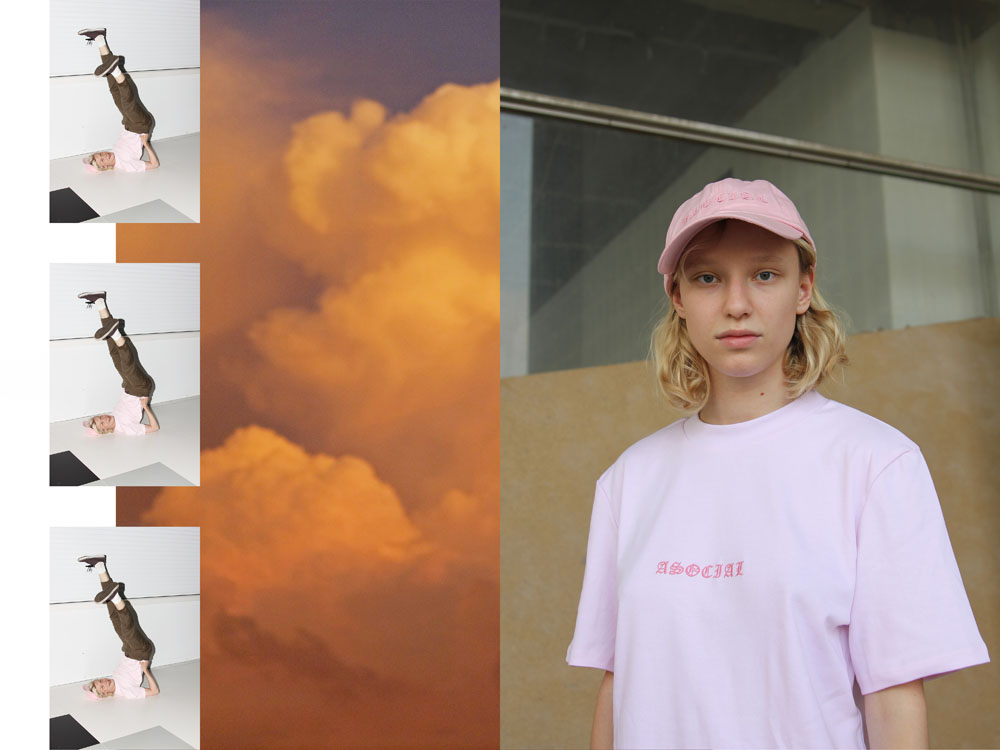
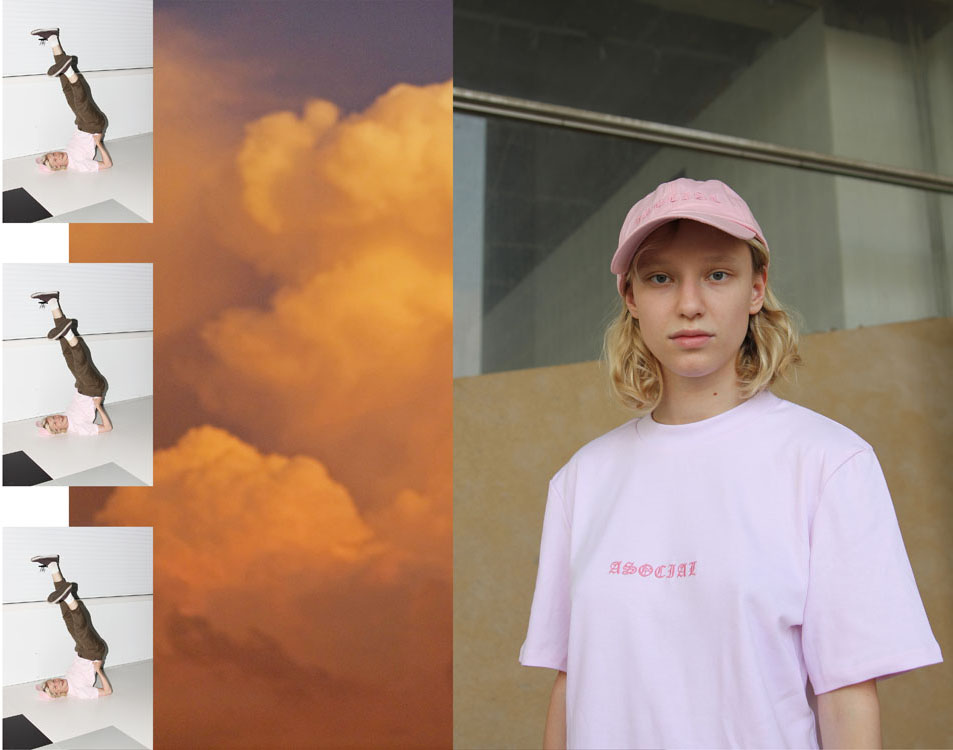
decreased pics size, changed index padding for iphone

diff --git a/public/js/bundle.js b/public/js/bundle.js
@@ -1,5 +1,6 @@
 window.onload = function() {
 
+//Mobile/Desktop menu control
 	(function() {
 
 		"use strict";
@@ -10,19 +11,9 @@ window.onload = function() {
 		var headerLogo = document.querySelectorAll(".header-logo")[0];
 		var slidingPartText = document.querySelectorAll(".mobile-menu")[0];
 		var link = $(".mobile-menu__elem-link");
-		var desktopLink = $('.menu-desktop__elem-link')
+		// var desktopLink = $('.menu-desktop__elem-link')
 		var item = $('.mobile-modal');
-		var slides = document.querySelectorAll(".swiper-slide").length;
-
-		var bodyWrapper = document.querySelectorAll(".main-container")[0];
-		var preloader = document.querySelectorAll(".preloader-container")[0];
-
-		if (bodyWrapper.classList.contains('not-active') === true) {
-			setTimeout(function() {
-				bodyWrapper.classList.remove('not-active')
-				preloader.classList.add('not-active')
-			}, 1)
-		}
+		// var slides = document.querySelectorAll(".swiper-slide").length;
 
 		//mobile link click
 		link.click(function(e) {
@@ -32,22 +23,8 @@ window.onload = function() {
 			item.one("webkitTransitionEnd otransitionend oTransitionEnd msTransitionEnd transitionend",
 				function() {
 					window.location = self.href;
-					//bodyWrapper.classList.add('fade-out')
 				});
 		})
-
-		//desktopLink.click(function(e) {
-		//e.preventDefault();
-		//bodyWrapper.classList.add('fade-out')
-		//var self = this;
-		//$('.main-container').one("webkitTransitionEnd otransitionend oTransitionEnd msTransitionEnd transitionend",
-		//function() {
-		//window.location = self.href;
-		//console.log(window.location)
-
-		//});
-		//})
-
 
 		navIcon.addEventListener("click", function(e) {
 			e.preventDefault();
@@ -59,13 +36,25 @@ window.onload = function() {
 			menuEventsHandler(navIcon, modal, slidingPart, headerLogo, slidingPartText)
 		});
 
+		//Toggle class is-active
 		function menuEventsHandler() {
 			var args = Array.prototype.slice.call(arguments, 0);
 			args.forEach(function(toggle) {
-				(toggle.classList.contains('is-active') === true) ? toggle.classList.remove('is-active'): toggle.classList.add('is-active')
+				(toggle.classList.contains('is-active') === true) ? toggle.classList.remove('is-active') : toggle.classList.add('is-active')
 			})
 		}
 
 	})();
+
+// Removes ".not-active" class on window load
+(function() {
+	var bodyWrapper = document.querySelectorAll(".main-container")[0];
+	var preloader = document.querySelectorAll(".preloader-container")[0];
+
+	if (bodyWrapper.classList.contains('not-active') === true) {
+			bodyWrapper.classList.remove('not-active')
+			preloader.classList.add('not-active')
+	}
+}())
 
 }

diff --git a/public/css/style.css b/public/css/style.css
@@ -5817,6 +5817,14 @@ button.close {
   .hidden-print {
     display: none !important; } }
 
+.index-container {
+  position: relative;
+  width: 90%;
+  display: flex;
+  align-self: center;
+  justify-content: space-between;
+  padding-top: 10px; }
+
 .products__container {
   position: relative;
   width: 80%;
@@ -5851,7 +5859,7 @@ button.close {
   position: relative; }
 
 .products__elem_img-overlay {
-  background: rgba(239, 185, 216, 0.5);
+  background: #efb9d8;
   position: absolute;
   opacity: 0;
   top: 0;
@@ -6061,13 +6069,16 @@ img {
 
 .mobile-modal.is-active {
   visibility: visible;
-  background-color: rgba(105, 0, 64, 0.4); }
+  background-color: rgba(239, 185, 216, 0.8); }
 
 .header-container {
   position: relative;
   margin: auto;
   height: 100px;
-  width: 100%; }
+  width: 90%; }
+  @media (min-width: 768px) and (max-width: 1023px) {
+    .header-container {
+      width: 85%; } }
 
 .header-logo {
   text-align: center;
@@ -6111,12 +6122,12 @@ img {
   display: block;
   position: absolute;
   top: 50%;
-  right: 5%;
+  right: 0%;
   transform: translateY(-50%);
   overflow: hidden;
   margin: 0;
   padding: 0;
-  width: 42px;
+  width: 33px;
   height: 42px;
   font-size: 0;
   text-indent: -9999px;
@@ -6134,8 +6145,8 @@ img {
   display: block;
   position: absolute;
   top: 18px;
-  left: 5px;
-  right: 5px;
+  left: 0px;
+  right: 0px;
   height: 5px;
   background: #000; }
 
@@ -6284,7 +6295,7 @@ img {
     text-decoration: none;
     color: #000; }
   .menu-desktop__elem-link:hover .menu-desktop__elem-link-inner {
-    background: rgba(239, 185, 216, 0.5);
+    background: rgba(239, 185, 216, 0.8);
     text-decoration: none;
     color: #000; }
 

diff --git a/public/css/partials/header.scss b/public/css/partials/header.scss
@@ -15,13 +15,16 @@
 }
 .mobile-modal.is-active {
   visibility: visible;
-  background-color: rgba(105,0,64,0.4);
+  background-color: $pink-transparent;
 }
 .header-container {
   position: relative;
   margin: auto;
   height: 100px;
-  width: 100%;
+  width: 90%;
+  @include ipad {
+    width: 85%;
+  }
 }
 .header-logo {
   text-align: center;
@@ -65,12 +68,12 @@
   display: block;
   position: absolute;
   top: 50%;
-  right: 5%;
+  right: 0%;
   transform: translateY(-50%);
   overflow: hidden;
   margin: 0;
   padding: 0;
-  width: 42px;
+  width: 33px;
   height: 42px;
   font-size: 0;
   text-indent: -9999px;
@@ -88,8 +91,8 @@
   display: block;
   position: absolute;
   top: 18px;
-  left: 5px;
-  right: 5px;
+  left: 0px;
+  right: 0px;
   height: 5px;
   background: #000;
 }
@@ -260,7 +263,7 @@
       color: #000;
     }
   &:hover .menu-desktop__elem-link-inner {
-  background: rgba(239,185,216,0.5);
+  background: $pink-transparent;
   text-decoration: none;
   color: #000;
 }

diff --git a/public/css/style.scss b/public/css/style.scss
@@ -1,4 +1,5 @@
-$pink: rgba(239,185,216,0.5);//
+$pink-transparent: rgba(239,185,216,0.8);
+$pink: rgba(239,185,216,1);
 
 @mixin iphone {
   @media (min-device-width: 320px)
@@ -22,7 +23,7 @@ $pink: rgba(239,185,216,0.5);//
 @import "themes/default/variables";
 @import "lib/bootstrap/bootstrap";
 
-@import "pages/index";
+@import "pages/home";
 @import "pages/products";
 @import "pages/product";
 @import "pages/lookbook";

diff --git a/public/css/pages/home.scss b/public/css/pages/home.scss
@@ -1,0 +1,8 @@
+.index-container {
+  position: relative;
+  width: 90%;
+  display: flex;
+  align-self: center;
+  justify-content: space-between;
+  padding-top: 10px;
+}
